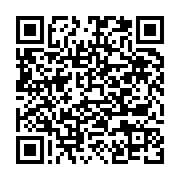
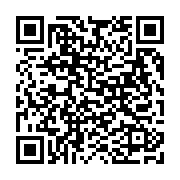
文案与活码更改

diff --git a/src/components/dashboard/app/interview/interviewStatus.vue b/src/components/dashboard/app/interview/interviewStatus.vue
@@ -134,7 +134,7 @@
                                             <span class="text-xl">
                                                 <Lightbulb class="size-6 text-amber-200" />
                                             </span>
-                                            <p class="text-sm text-[#bbb3a4]">请根据您的面试时间，提前15分钟到达面试地点。</p>
+                                            <p class="text-sm text-[#bbb3a4]">请根据您的面试时间，提前10分钟到达面试地点。</p>
                                         </div>
                                     </div>
                                 </div>
